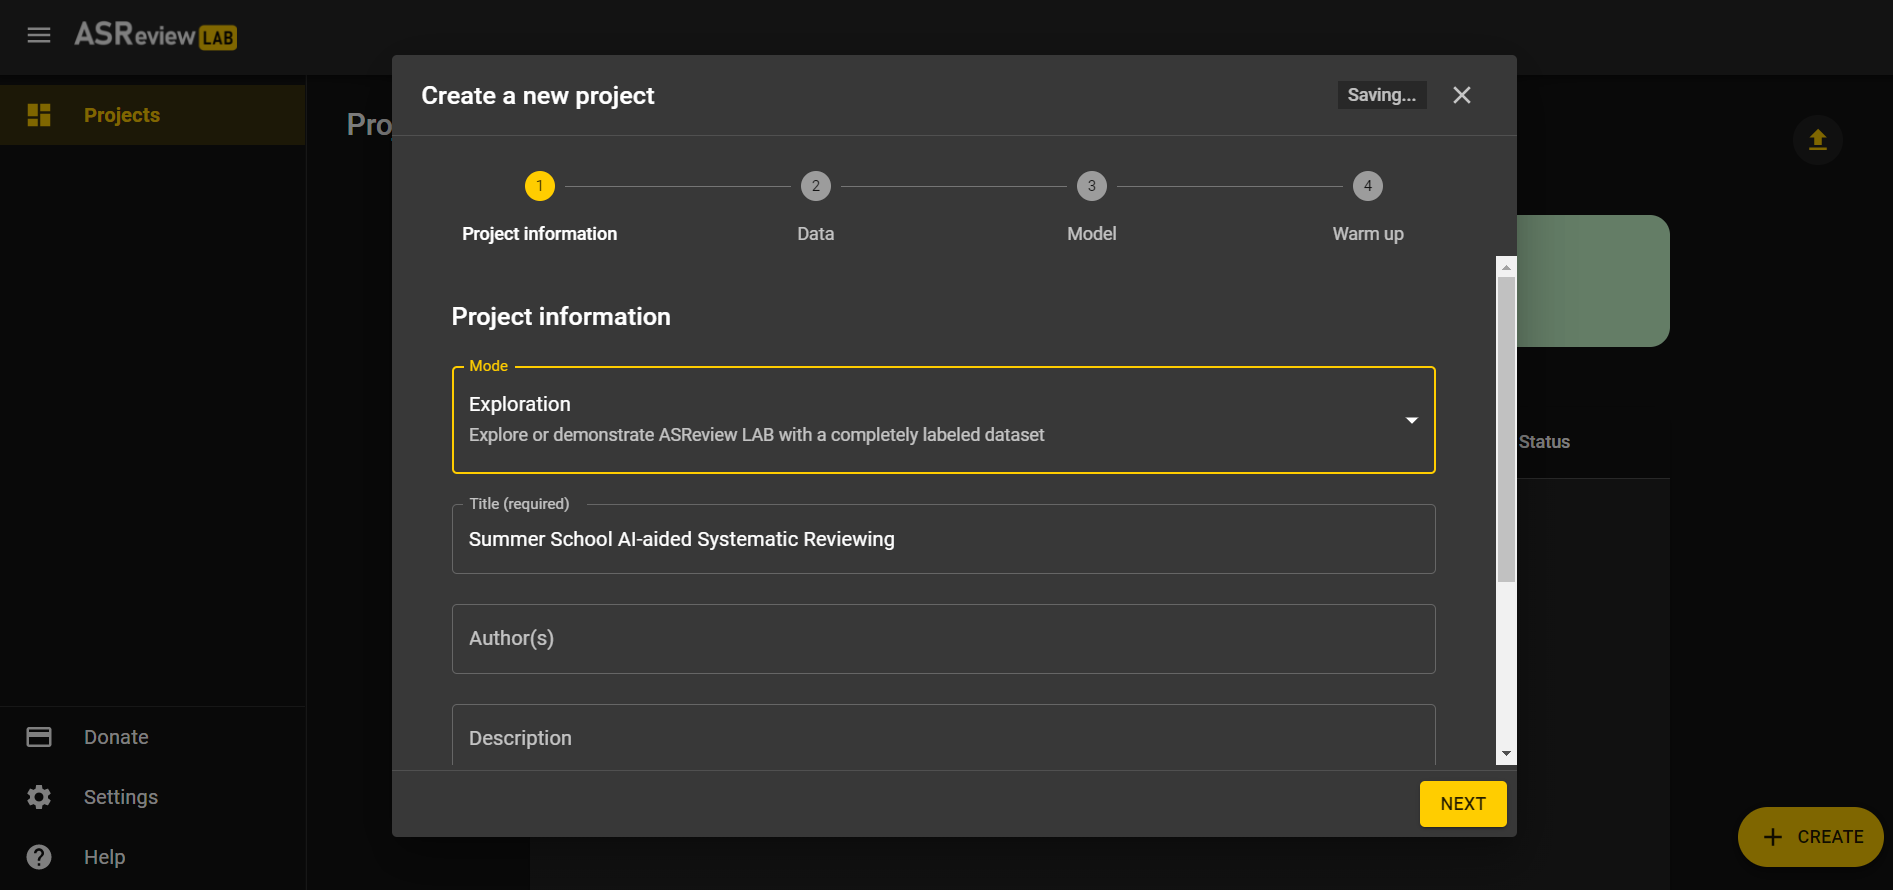
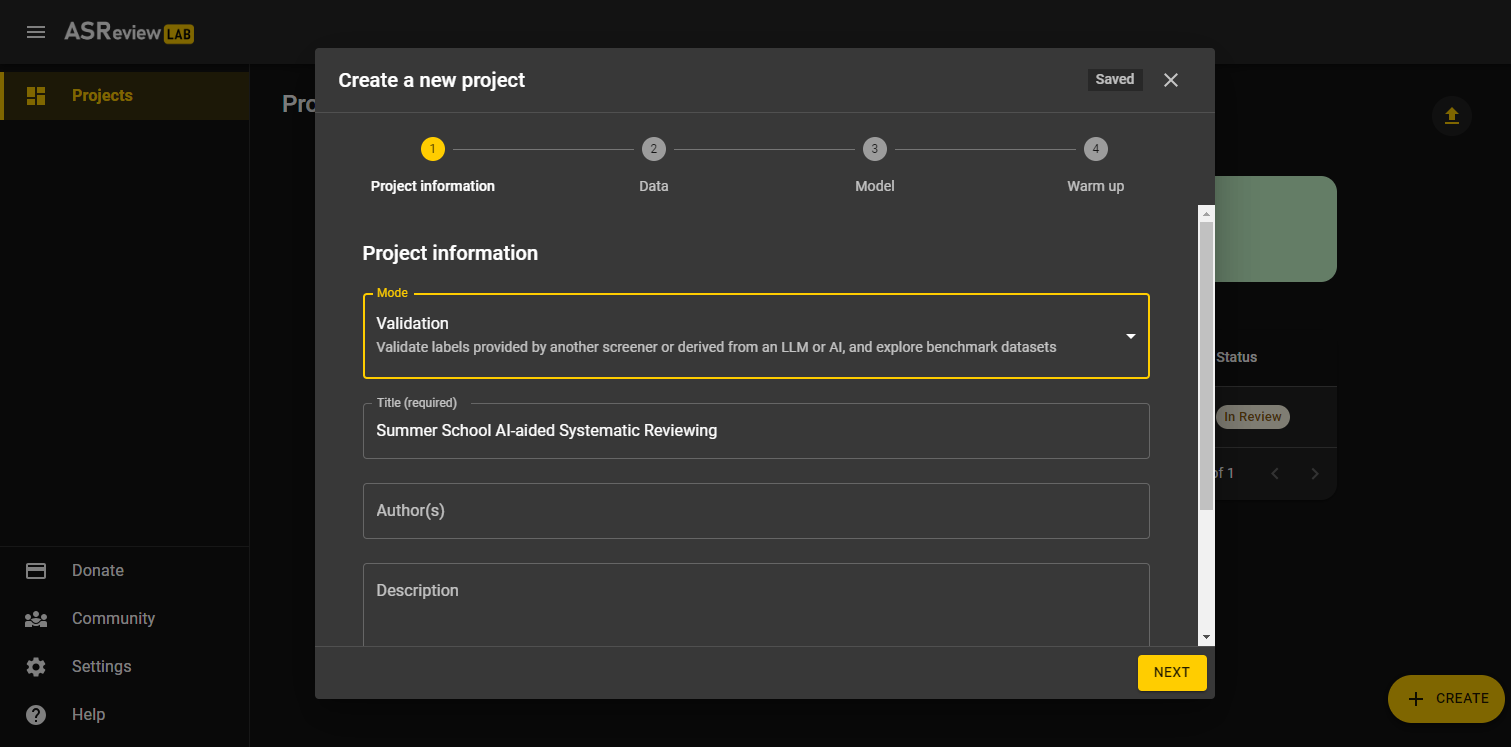
Changed 'Exploration' to 'Validation' (#25)

diff --git a/docs/ASReviewLAB.html b/docs/ASReviewLAB.html
@@ -279,9 +279,9 @@ pre > code.sourceCode > span > a:first-child::before { text-decoration: underlin
 <ol start="2" type="1">
 <li><em>Project name;</em></li>
 </ol>
-<p>Select Exploration Mode, fill out a project name and press ‘NEXT’. Note that you can fill out your name and a description as well.</p>
+<p>Select Validation Mode, fill out a project name and press ‘NEXT’. Note that you can fill out your name and a description as well.</p>
 <p><img src="images/ASReviewLAB/Interface3.png" class="img-fluid" style="width:95.0%"></p>
-<p>For this exercise we are screening in the so-called ‘Exploration Mode’ of ASReview. By screening in the <a href="https://asreview.readthedocs.io/en/latest/project_create.html#project-modes" target="_blank">Exploration Mode</a>, we are going to make use of a <a href="https://asreview.readthedocs.io/en/latest/data_labeled.html#fully-labeled-data" target="_blank">benchmark dataset</a>. This means that all records in the dataset have already been labeled as relevant or irrelevant. This is indicated to the user through a banner above each article. Note that in ‘Oracle Mode’ - when screening your own dataset - the relevant papers will not be marked; you, the oracle, have to make the decisions.</p>
+<p>For this exercise we are screening in the so-called Validation Mode’ of ASReview. By screening in the <a href="https://asreview.readthedocs.io/en/latest/project_create.html#project-modes" target="_blank">Validation Mode</a>, we are going to make use of a <a href="https://asreview.readthedocs.io/en/latest/data_labeled.html#fully-labeled-data" target="_blank">benchmark dataset</a>. This means that all records in the dataset have already been labeled as relevant or irrelevant. This is indicated to the user through a banner above each article. Note that in ‘Oracle Mode’ - when screening your own dataset - the relevant papers will not be marked; you, the oracle, have to make the decisions.</p>
 <p>More detailed information about setting up a project can be found on <a href="https://asreview.readthedocs.io/en/latest/project_create.html#project-information" target="_blank">ReadTheDocs</a>.</p>
 <p><em>Have you started creating a new project? If so, you can proceed to step 4!</em></p>
 </section>
@@ -299,7 +299,7 @@ pre > code.sourceCode > span > a:first-child::before { text-decoration: underlin
 <section id="step-5-prior-knowledge" class="level3">
 <h3 class="anchored" data-anchor-id="step-5-prior-knowledge">Step 5: Prior knowledge</h3>
 <p>Before you can start screening the records, you need to tell ELAS what kind of records you <u>are</u> and what kind of records you <u>are not</u> looking for (i.e., relevant and irrelevant records, respectively). We call this <em>prior knowledge</em>. Based on the prior knowledge you provide, ELAS will reorder the stack of papers and provide you with the record that is most likely to be relevant (default settings).</p>
-<p>When performing a systematic review with your own data, you need to provide the prior knowledge yourself (at least one relevant and one irrelevant record). However, because you are using the Exploration Mode of ASReview, the relevant records are known; the original authors have already read ALL records.</p>
+<p>When performing a systematic review with your own data, you need to provide the prior knowledge yourself (at least one relevant and one irrelevant record). However, because you are using the Validation Mode of ASReview, the relevant records are known; the original authors have already read ALL records.</p>
 <p>To select the prior knowledge you first need to click on the ‘ADD’ button next to ‘Add prior knowledge’; see also the documentation about the selection of <a href="https://asreview.readthedocs.io/en/latest/project_create.html#select-prior-knowledge" target="_blank">prior knowledge</a>. Now you will see a menu about selecting prior knowledge.</p>
 <p>The following five papers are known to be relevant:</p>
 <ul>
@@ -328,7 +328,7 @@ pre > code.sourceCode > span > a:first-child::before { text-decoration: underlin
 <section id="step-7-screening-the-records" class="level3">
 <h3 class="anchored" data-anchor-id="step-7-screening-the-records">Step 7: Screening the records</h3>
 <p>Everything is set up and ready to screen, well done!</p>
-<p>Since we are in the Exploration Mode of ASReview, you can pretend to be an expert on the topic of PTSD and pretend you have all the knowledge of the original screeners. All records in the dataset have been labeled as relevant/irrelevant, which is indicated through a banner above each article. Click on the heart shaped Relevant button if the record is marked as relevant. If not, you can press the Irrelevant button.</p>
+<p>Since we are in the Validation Mode of ASReview, you can pretend to be an expert on the topic of PTSD and pretend you have all the knowledge of the original screeners. All records in the dataset have been labeled as relevant/irrelevant, which is indicated through a banner above each article. Click on the heart shaped Relevant button if the record is marked as relevant. If not, you can press the Irrelevant button.</p>
 <p>Now, all we need is a Stopping Rule to determine when you are confident that you have identified (almost) all relevant records in your dataset. For this exercise, continue screening records until you have marked <em>50 consecutive records as irrelevant</em>. You can check up on your progress in the <a href="https://asreview.readthedocs.io/en/latest/progress.html" target="_blank">Analytics page</a>.</p>
 <p>When you have reached your Stopping Rule and you are done screening, go back to the Analytics page. Here you can see the summary statistics of your project such as the number of records you have labeled relevant or irrelevant. It also shows how many records are in your dataset and how many records you labeled irrelevant since you have screened the last relevant record. For more information about how to read these summary statistics and interpret the corresponding charts, check out the <a href="https://asreview.readthedocs.io/en/latest/progress.html#analytics" target="_blank">documentation</a> on the Analytics page.</p>
 <p>The Van de Schoot (2017) dataset contained 43 relevant records in this particular example. Did you get to label all of them as relevant before you reached your Stopping Rule? If you did, great!</p>
